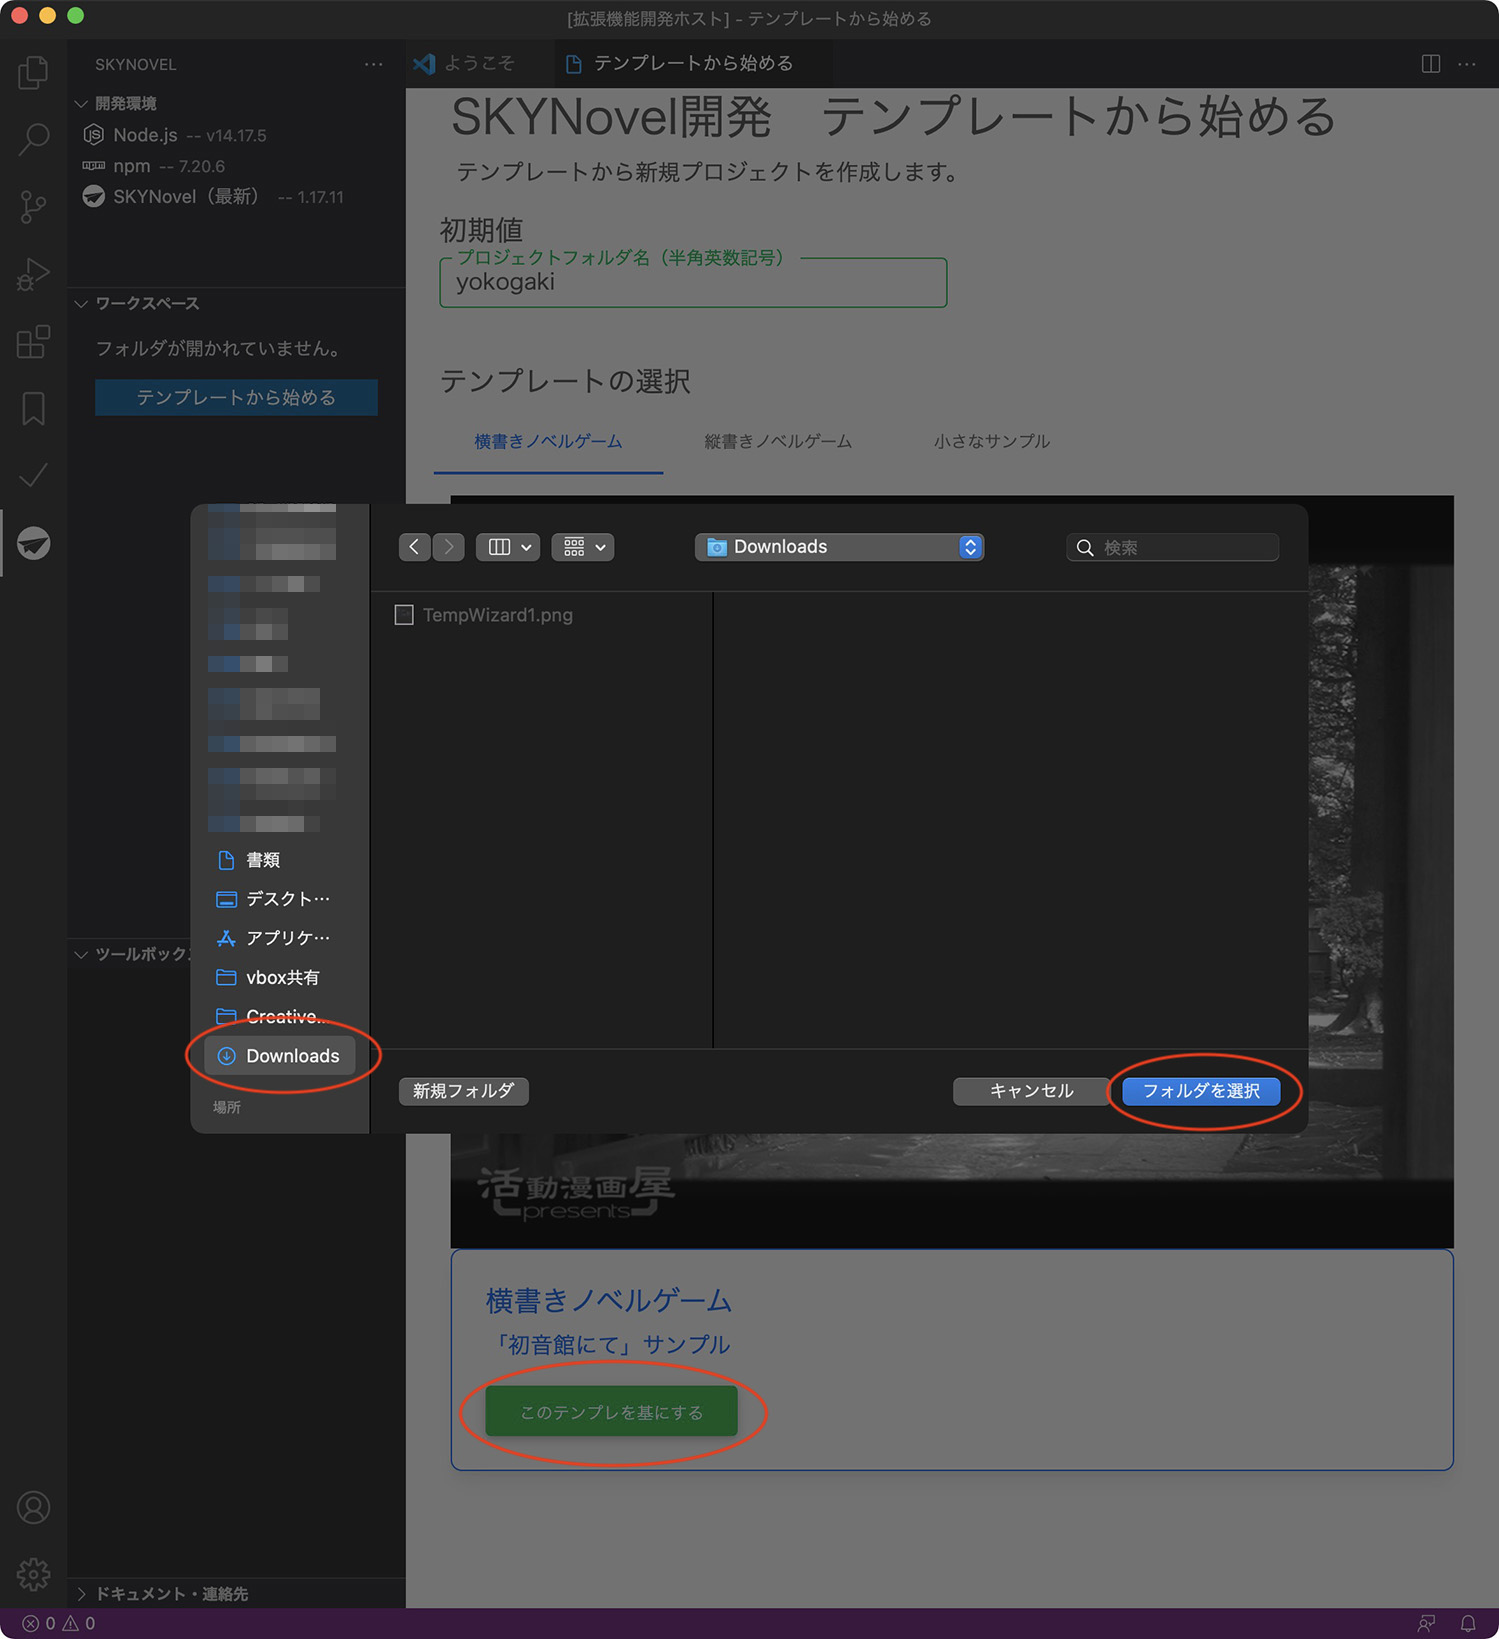
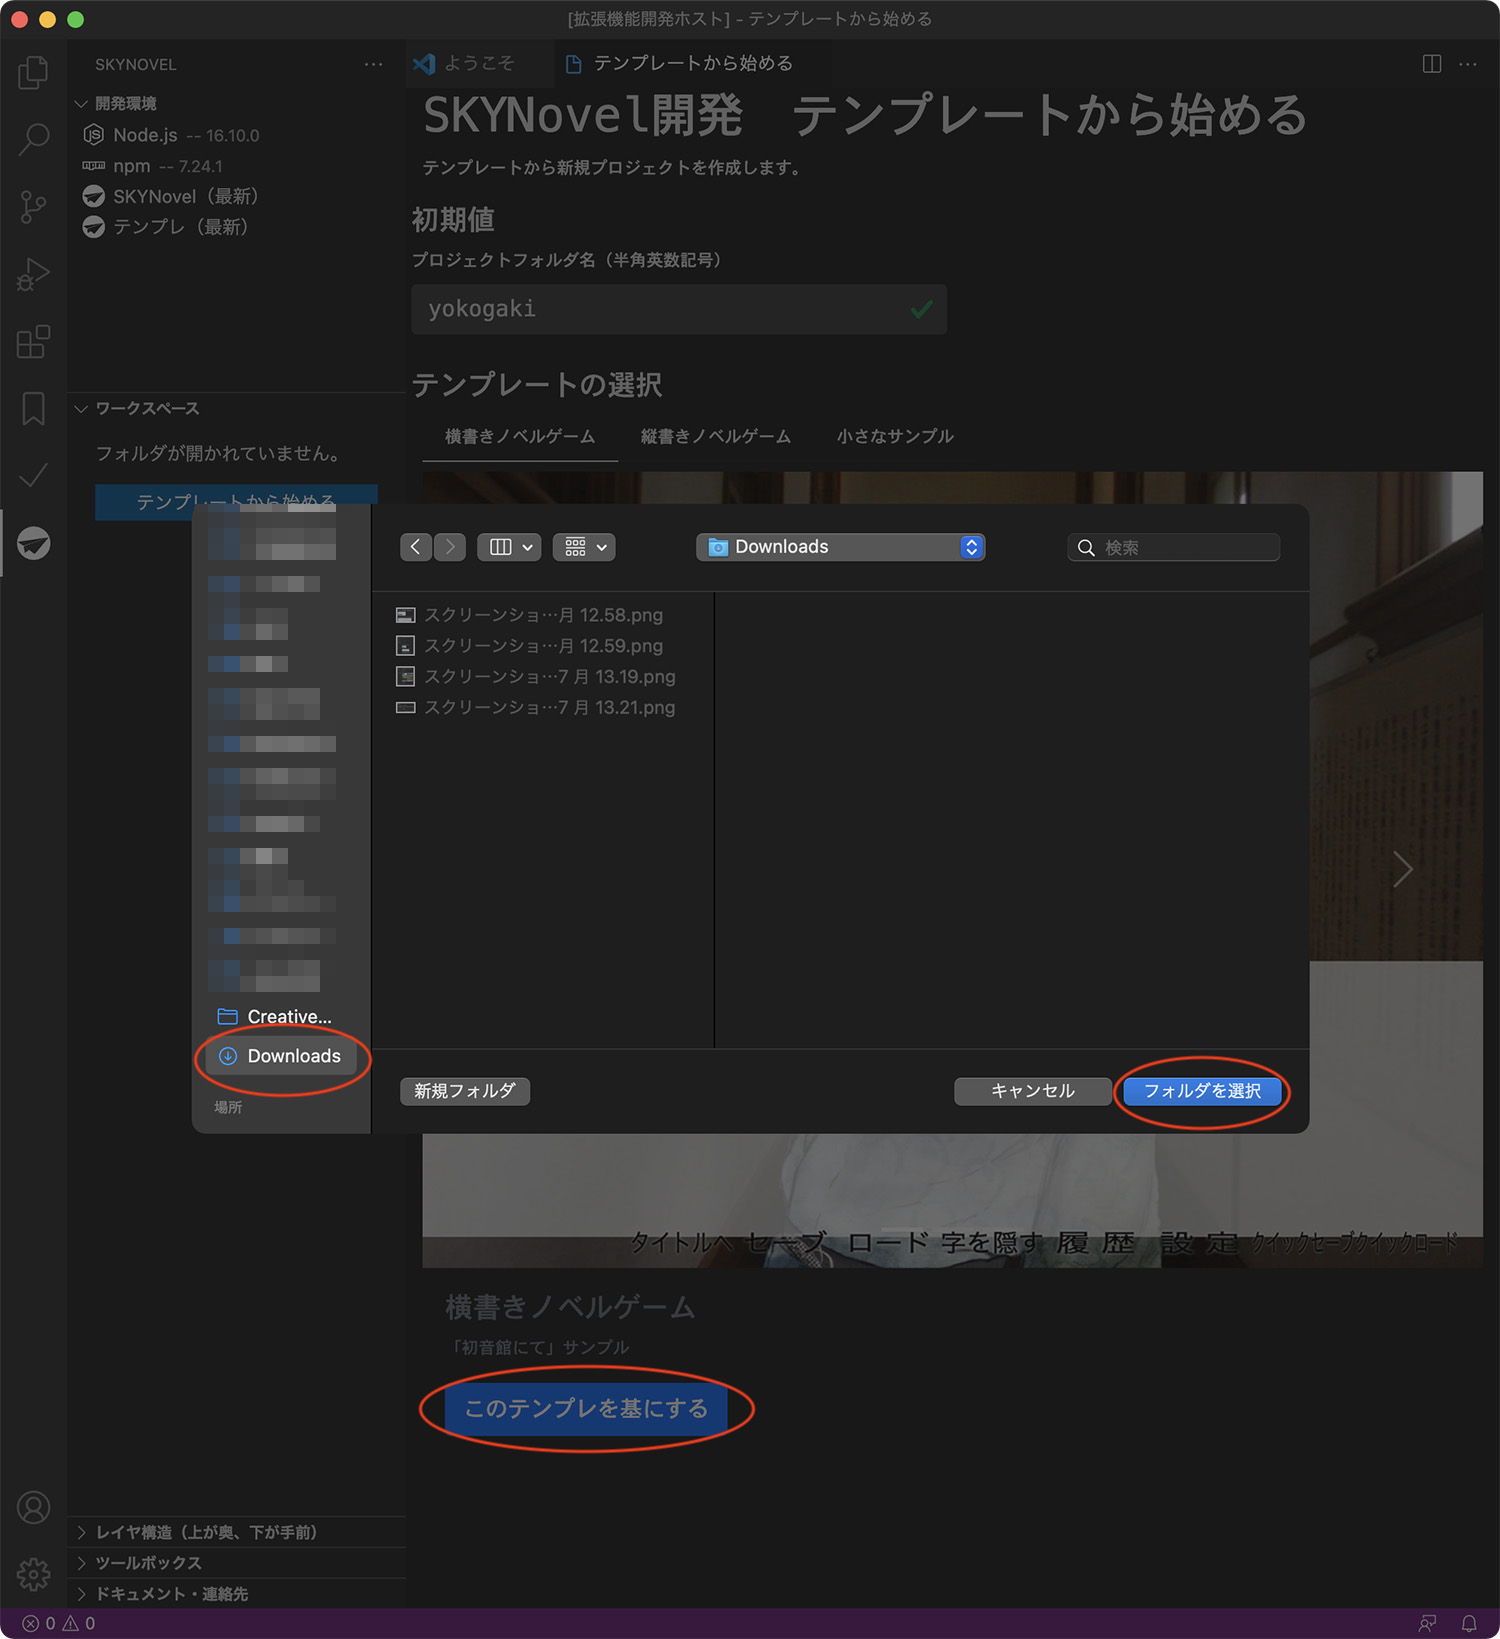
docs: 【開発者情報】開発環境ビュー、テンプレウイザード、設定画面のスナップショット修正

diff --git a/docs/dev.htm b/docs/dev.htm
@@ -314,7 +314,7 @@
 	<amp-img src="pic/TempWizard1.jpg" width="939" height="660" layout="responsive"></amp-img><br/>
 
 	【テンプレートから始める】画面が表示されます。<br/>
-	<amp-img src="pic/TempWizard2.jpg" width="1499" height="1639" layout="responsive"></amp-img><br/>
+	<amp-img src="pic/TempWizard2.jpg" width="1500" height="1639" layout="responsive"></amp-img><br/>
 
 	　上部に【プロジェクトフォルダ名】を入力します。半角英数記号を推奨しており、それ以外はエラーになります。<br/>
 	　この例では、【yokogaki】としておきます。<br/>
@@ -324,11 +324,11 @@
 		<li>小さなサンプル</li>
 	</ul>
 	……などのタブを選択し、新規作成プロジェクトの基にしたいテンプレを選択します。<br/>
-	<amp-img src="pic/TempWizard3.jpg" width="736" height="320" layout="responsive"></amp-img><br/>
+	<amp-img src="pic/TempWizard3.jpg" width="798" height="390" layout="responsive" style="border: 5px solid white;"></amp-img><br/>
 
 	　決めたら、【このテンプレを基にする】をクリック。<br/>
 	　フォルダ選択ダイアログが表示されるので、プロジェクトフォルダを置く場所を指定して下さい。<br/>
-	<amp-img src="pic/TempWizard10.jpg" width="1499" height="1639" layout="responsive"></amp-img><br/>
+	<amp-img src="pic/TempWizard10.jpg" width="1500" height="1639" layout="responsive"></amp-img><br/>
 
 	　右下に進捗が表示されます。ネット回線が速いなら一分以内に完了し、フォルダを開きます。<br/>
 	<amp-img src="pic/TempWizard11.jpg" width="750" height="216" layout="responsive"></amp-img><br/>
@@ -349,12 +349,12 @@
 
 	　SKYNovelロゴをクリックすると、ワークスペースに現在開かれているプロジェクト（フォルダ）一覧が表示されます。ここでは【yokogaki】です。<br/>
 	　またプロジェクトごとにライブラリを更新したり、ブラウザ版を起動したり、ワンタッチで様々な操作ができるようになっています。詳細はまた別項にて解説します。<br/>
-	<amp-img src="pic/TempWizard16.jpg" width="1499" height="1639" layout="responsive"></amp-img><br/>
+	<amp-img src="pic/TempWizard16.jpg" width="1500" height="1639" layout="responsive"></amp-img><br/>
 
 	　試しに【設定】をクリックしてみると、プロジェクトの様々な設定が入力できる画面が表示されます。<br/>
 	　プロジェクト名が【yokogaki】です。<br/>
 	※変更すると、フォルダ名はそのままにプロジェクト名のみが変更されます。パッケージのファイル名などがプロジェクト名を基にしています。<br/>
-	<amp-img src="pic/TempWizard17.jpg" width="1499" height="1639" layout="responsive"></amp-img><br/>
+	<amp-img src="pic/TempWizard17.jpg" width="1500" height="1639" layout="responsive"></amp-img><br/>
 
 	　今度は【起動：ブラウザ版】右にマウスカーソルを乗せると現われる、【再生ボタン】をクリックしてみましょう。<br/>
 	<amp-img src="pic/inst_other5.jpg" width="620" height="373" layout="responsive"></amp-img><br/>
@@ -393,7 +393,8 @@
 	　メニューの【ファイル】-【保存】、あるいは Ctrl+Sショートカットで保存します。<br/>
 	<amp-img src="pic/remodel_title2.jpg" width="1024" height="768" layout="responsive"></amp-img><br/>
 
-	　ブラウザの再読み込みボタンを押します。<br/>
+	　自動で再読み込みされます。<br/>
+	（自動でされなければ、ブラウザの再読み込みボタンを押します）<br/>
 	<amp-img src="pic/remodel_title3.jpg" width="474" height="278" layout="responsive"></amp-img><br/>
 
 	　文字が変更されました！　ボタンもちゃんと押せます。<br/>

diff --git a/CHANGELOG.md b/CHANGELOG.md
@@ -1,3 +1,6 @@
+- docs: 【開発者情報】開発環境ビュー、テンプレウイザード、設定画面のスナップショット修正
+
+
 ## [1.18.7](https://github.com/famibee/SKYNovel/compare/v1.18.6...v1.18.7) (2021-09-22)
 
 
